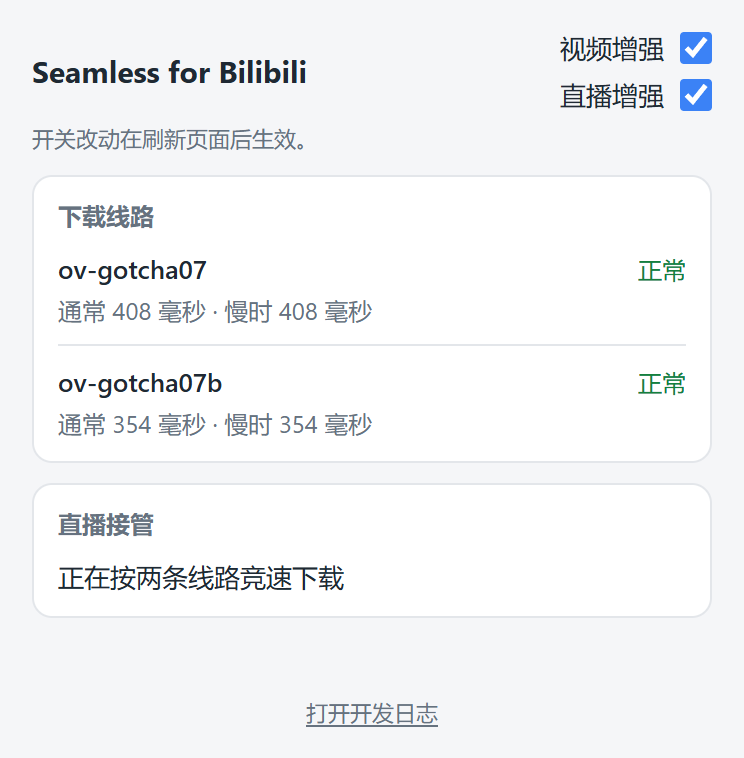
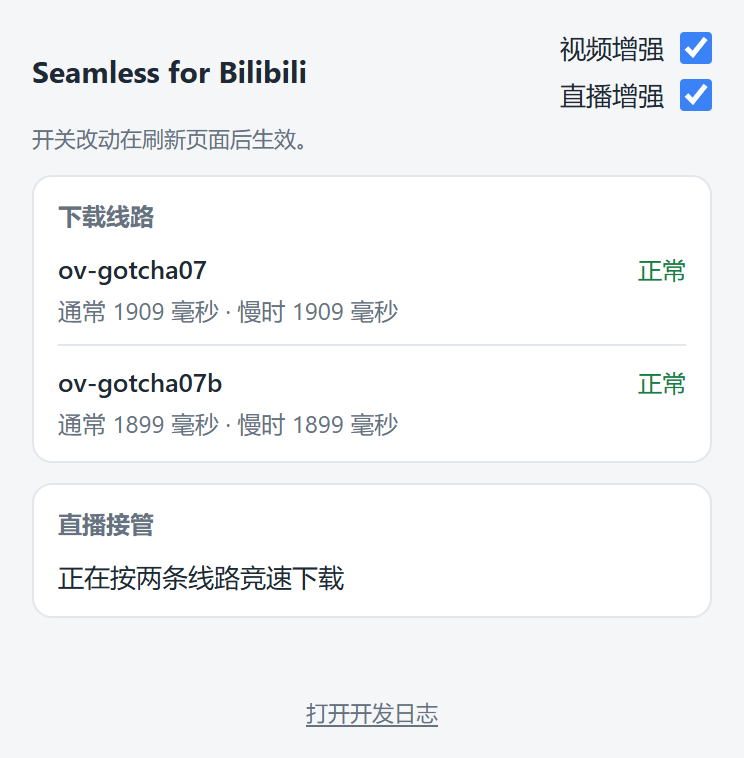
Recapture the store images from the CDN-panel fix build
Why: the fix commit changed shipped sources, so the release artifacts
regenerate from it per the loop's goal-5 rule. Sixth capture run on
2026-09-29 (headed Chrome 154, temp profile): video BV1esa36qEbN
124s/120s applied, live room 1746709913 FLV gotcha07/07b racing.
Three abandoned runs recorded in the provenance: event room 6 still
mounts the player in an iframe, and two capture sessions stayed in
honest single-leg downgrade for the whole watch window while a direct
log pull on the same room showed pairing itself healthy (stitch
mismatch:false, both legs trading); the depicted session raced.
Deterministic renders are byte-identical to the previous set.

Changed region(s): [[0.1546, 0.5462, 0.5565, 0.5765], [0.1546, 0.3945, 0.5565, 0.4248]]

diff --git a/store/images/README.md b/store/images/README.md
@@ -32,25 +32,27 @@
    每张图渲染前自检：弹窗、说明语和文字块不出画，说明语不压弹窗，标题只在词边界换行，背景页面截图必须加载成功；任一不满足即报错退出。
 3. 文案修改直接改 `src/*.html`（截图说明语在 HTML 里；直播说明语按 `report.json` 的实际接管状态插值到渲染页面，源文件不改）。
 
-## 捕获来源（2026-09-29 第五次）
+## 捕获来源（2026-09-29 第六次）
 
-- commit `1bd14a00945c3e3120cfd1a73f6b2878c84f13d4`，buildId `src-ea4c271a08046814f82bff50`（与 `report.json`
-  的 `provenance` 一致，随捕获自动写入）；Chrome 154.0.8037.57（系统 Chrome，Windows），`--headed` 可见窗口模式，
-  临时专用 profile，未登录，`--force-device-scale-factor=2`，浏览器窗口顶到屏幕上沿（`--window-position=0,0`）。
-- 视频：BV1esa36qEbN（播放量 < 10 的冷门视频），缓冲 125 秒 / 目标 120 秒已生效，两条线路卡均正常且带连接时间；
-  直播：房间 1746709913（赛事房 6 仍是特殊直播形态、顶层文档等不到 video 元素，31368705 同样等不到；直播列表 API
-  被风控（-352），按要求最少请求改为打开直播分区页取候选房间再逐个验证顶层播放器；按 `BILIBILI_STORE_LIVE_URL`
-  覆盖到这个普通在播房间），播放器走 FLV（gotcha07 与 gotcha07b 两路竞速，`report.json` 的 `liveFormat` 为
-  `FLV`），弹窗显示「正在按两条线路竞速下载」。
-- 本次有一次废跑：视频弹窗的线路卡出现瞬时「有错误」健康词（红色），按「特写不得带红色健康像素」的标准整组
-  重拍；上图这组四张线路卡健康词均为「正常」（绿色）。
+- commit `ecc50bf4dc20c18080b38ef7f0577926fb86397e`（工作区于 Windows scratch 按此提交内容运行，
+  scratch 内无 git，`report.json` 的 `commitSha` 如实记为 null 并注明原因），buildId
+  `src-fdef7eb2eb34e1b5a76ecadf`（与 `report.json` 的 `provenance` 一致，随捕获自动写入）；
+  Chrome 154.0.8037.57（系统 Chrome，Windows），`--headed` 可见窗口模式，临时专用 profile，未登录，
+  `--force-device-scale-factor=2`，浏览器窗口顶到屏幕上沿（`--window-position=0,0`）。
+- 视频：BV1esa36qEbN（播放量 < 10 的冷门视频），缓冲 124 秒 / 目标 120 秒已生效，两条线路卡均正常且带连接时间；
+  直播：房间 1746709913（按 `BILIBILI_STORE_LIVE_URL` 覆盖；默认的赛事房 6 仍是特殊直播形态、顶层文档等不到
+  video 元素），播放器走 FLV（gotcha07 与 gotcha07b 两路竞速，`report.json` 的 `liveFormat` 为 `FLV`），
+  弹窗显示「正在按两条线路竞速下载」。
+- 本次有三次废跑，一次与房间布局有关、两次与会话降级有关，如实记录：默认房 6 顶层等不到播放器超时；
+  普通房 27632810 整场 300 秒停在「单路接管（无可用备用线路）」；1746709913 的第一个捕获会话同样整场停在
+  单路接管。随后在 1746709913 单独拉扩展日志核对：前缀比对两轮均通过（`mismatch:false`）、两次 `hit/live_stream`、
+  两腿 `fetched`/`lost_race` 交替，即竞速本身健康，降级与否随会话首次前缀比对的结果而定（前一日同房间
+  场场竞速）；紧接着的下一个捕获会话即竞速，上图这一组取自该会话。六次捕获里没有任何一次为「等到竞速」
+  改动扩展行为，废跑的标准与第五次相同（接管行必须是竞速，线路卡健康词不得带红色）。
 - 捕获即验证：弹窗读数（双开关、缓冲条、120 秒申请状态、线路健康词与连接时间、直播接管行）来自真实运行，
-  深色模式经 `prefers-color-scheme` 模拟逐像素核对（健康词整词着色，无半色缺陷；两路健康词均为「正常」，
-  无红色健康像素）。
-- 弹窗完整性的教训与自检：2× 缩放把 Chrome 感知到的屏幕减半（1920×1080 读作 960×540、可用 516），浏览器窗口
-  在 y=40 时弹窗锚点落在屏幕 y≈116，Chrome 把弹窗窗口钳到 396 CSS px 而文档高 435，日志链接（y 400.5-423）
-  落在未绘制区，第二次捕获的特写里因此是一段空白；窗口顶到 y=0 后锚点升到 y≈76，弹窗窗口装下整个文档。
-  `--headless` 的虚拟屏幕约 800×600（物理），2× 缩放下 CSS 高只有 300，弹窗窗口同样装不下 435 高的文档，
-  因此捕获只能在 `--headed` 的真实屏幕上跑（脚本对装不下直接报错退出，不会产出被裁的图）。
-  每张弹窗截图写出的 PNG 都会解码并断言链接区域有墨迹（对照：第二次的视频弹窗该区域 0 个墨迹像素，本次
-  1612 个，与直播弹窗一致），视口与文档尺寸连同链接坐标写入 `report.json` 供复核。
+  深色模式经 `prefers-color-scheme` 模拟逐像素核对（健康词整词着色，无半色缺陷；两张弹窗四张线路卡健康词
+  均为「正常」，无红色健康像素）。弹窗特写链接区墨迹与第五次逐项一致（明 1612 / 暗 1623，两张弹窗同数），
+  视口与文档尺寸连同链接坐标写入 `report.json` 供复核。
+- 弹窗完整性的屏幕钳制教训（2× 缩放下的 435 CSS px 文档高、`--headed` 必要性、窗口 y=0）见第五次的记录，
+  本次脚本自检同名通过，不重复展开。三张确定性渲染图（机制示意图、小宣传图、Marquee）与上一组逐字节一致，
+  四张随运行取数的图（两张弹窗特写与两张 1280x800 截图）为本组新图。
